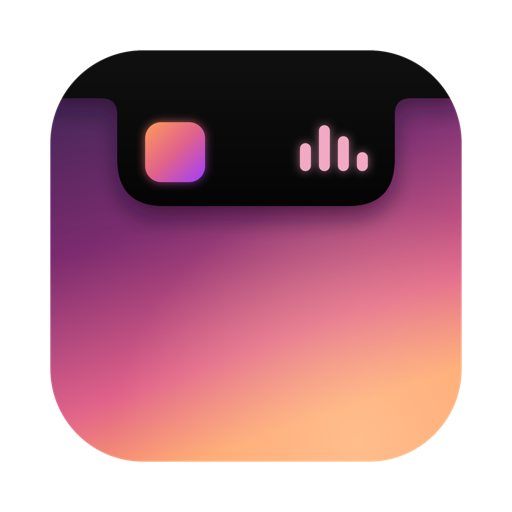
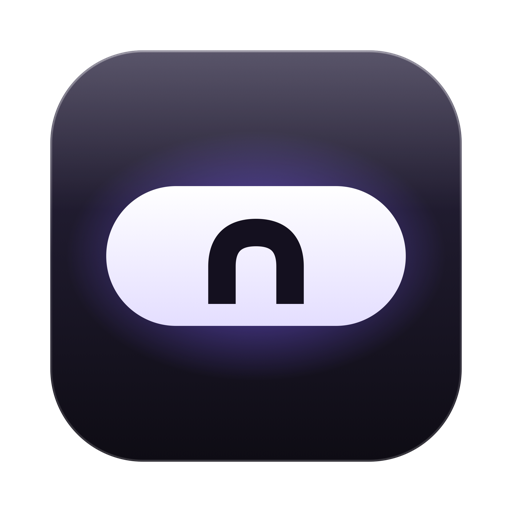
Ícono nuevo: la isla brillante con la n de Notchy sobre vidrio oscuro
Simétrico, legible en blanco y negro y con paleta fija (tinta, lila y violeta). scripts/icono también actualiza la portada de las instrucciones; el disco deja sitio al PDF y expulsa bien el volumen aunque el Finder tenga la ventana abierta.

diff --git a/Resources/Icono/icono.html b/Resources/Icono/icono.html
@@ -1,7 +1,8 @@
 <!doctype html>
-<!-- Ícono de Notchy: el notch de una Mac abierto como isla, con carátula y espectro. Se renderiza a
-     1024 × 1024 con transparencia y de ahí salen todos los tamaños del AppIcon (scripts/icono).
-     Rejilla de macOS: cuerpo de 824 con 100 de margen. -->
+<!-- Ícono de Notchy: la isla brillante sobre vidrio oscuro, con la n de Notchy. Simétrico y con paleta
+     fija: tinta #14101F, lila #F4F1FF, violeta #7B5CFF. Se renderiza a 1024 × 1024 con transparencia
+     y de ahí salen todos los tamaños del AppIcon (scripts/icono). Rejilla de macOS: cuerpo de 824 con
+     100 de margen. -->
 <html>
 <head>
 <meta charset="utf-8">
@@ -14,60 +15,35 @@
 <svg width="1024" height="1024" viewBox="0 0 1024 1024" xmlns="http://www.w3.org/2000/svg">
   <defs>
     <clipPath id="cuerpo"><rect x="100" y="100" width="824" height="824" rx="186"/></clipPath>
-    <!-- Fondo de pantalla: violeta arriba, rosa y naranja abajo. -->
-    <linearGradient id="fondo" x1="0" y1="0" x2="0.35" y2="1">
-      <stop offset="0" stop-color="#2a1747"/>
-      <stop offset="0.45" stop-color="#7a2a6e"/>
-      <stop offset="0.8" stop-color="#e0628a"/>
-      <stop offset="1" stop-color="#ffa36b"/>
+    <linearGradient id="vidrio" x1="0" y1="0" x2="0" y2="1">
+      <stop offset="0" stop-color="#2B2540"/><stop offset="1" stop-color="#0E0C14"/>
     </linearGradient>
-    <radialGradient id="luz" cx="0.75" cy="0.95" r="0.6">
-      <stop offset="0" stop-color="#ffd2a8" stop-opacity="0.55"/>
-      <stop offset="1" stop-color="#ffd2a8" stop-opacity="0"/>
+    <radialGradient id="halo" cx=".5" cy=".5" r=".5">
+      <stop offset="0" stop-color="#7B5CFF" stop-opacity=".75"/><stop offset="1" stop-color="#7B5CFF" stop-opacity="0"/>
     </radialGradient>
-    <linearGradient id="caratula" x1="0" y1="0" x2="1" y2="1">
-      <stop offset="0" stop-color="#ff9a5a"/><stop offset="0.5" stop-color="#e0628a"/><stop offset="1" stop-color="#a03dff"/>
+    <linearGradient id="isla" x1="0" y1="0" x2="0" y2="1">
+      <stop offset="0" stop-color="#FFFFFF"/><stop offset="1" stop-color="#E4DEFF"/>
     </linearGradient>
-    <linearGradient id="reflejo" x1="0" y1="0" x2="0" y2="1">
-      <stop offset="0" stop-color="#fff" stop-opacity="0.18"/><stop offset="1" stop-color="#fff" stop-opacity="0"/>
+    <linearGradient id="brillo" x1="0" y1="0" x2="0" y2="1">
+      <stop offset="0" stop-color="#fff" stop-opacity=".22"/><stop offset="1" stop-color="#fff" stop-opacity="0"/>
     </linearGradient>
-    <filter id="sombra" x="-20%" y="-20%" width="140%" height="160%">
-      <feDropShadow dx="0" dy="22" stdDeviation="26" flood-color="#12051f" flood-opacity="0.55"/>
-    </filter>
-    <filter id="brilla" x="-50%" y="-50%" width="200%" height="200%">
-      <feGaussianBlur stdDeviation="9"/>
-    </filter>
+    <linearGradient id="borde" x1="0" y1="0" x2="0" y2="1">
+      <stop offset="0" stop-color="#fff" stop-opacity=".35"/><stop offset=".5" stop-color="#fff" stop-opacity=".05"/>
+      <stop offset="1" stop-color="#fff" stop-opacity=".15"/>
+    </linearGradient>
+    <clipPath id="recorteN"><rect x="402" y="432" width="220" height="176"/></clipPath>
   </defs>
 
   <g clip-path="url(#cuerpo)">
-    <rect x="100" y="100" width="824" height="824" fill="url(#fondo)"/>
-    <rect x="100" y="100" width="824" height="824" fill="url(#luz)"/>
-    <!-- Borde de la pantalla y la isla que baja de él, con hombros cóncavos. -->
-    <path filter="url(#sombra)" fill="#000" d="
-      M100 100 H924 V196 H822
-      Q790 196 790 228
-      V318 Q790 412 696 412
-      H328 Q234 412 234 318
-      V228 Q234 196 202 196
-      H100 Z"/>
-    <!-- Reflejo de vidrio arriba del cuerpo. -->
-    <rect x="100" y="100" width="824" height="420" fill="url(#reflejo)" opacity="0.35"/>
+    <rect x="100" y="100" width="824" height="824" fill="url(#vidrio)"/>
+    <ellipse cx="512" cy="512" rx="380" ry="250" fill="url(#halo)"/>
+    <rect x="212" y="372" width="600" height="280" rx="140" fill="url(#isla)"/>
+    <!-- La n: arco simétrico, con las patas cortadas en recto -->
+    <path clip-path="url(#recorteN)" d="M443.8 640 V533.2 Q443.8 465 512 465 Q580.2 465 580.2 533.2 V640"
+          stroke="#14101F" stroke-width="55" fill="none" stroke-linecap="round"/>
+    <rect x="100" y="100" width="824" height="320" fill="url(#brillo)"/>
   </g>
-
-  <!-- Carátula -->
-  <rect x="290" y="244" width="120" height="120" rx="32" fill="url(#caratula)" filter="url(#brilla)" opacity="0.7"/>
-  <rect x="290" y="244" width="120" height="120" rx="32" fill="url(#caratula)"/>
-  <!-- Espectro -->
-  <g fill="#f2a9c3">
-    <g filter="url(#brilla)" opacity="0.6">
-      <rect x="600" y="286" width="22" height="56" rx="11"/><rect x="638" y="250" width="22" height="92" rx="11"/>
-      <rect x="676" y="272" width="22" height="70" rx="11"/><rect x="714" y="304" width="22" height="38" rx="11"/>
-    </g>
-    <rect x="600" y="286" width="22" height="56" rx="11"/><rect x="638" y="250" width="22" height="92" rx="11"/>
-    <rect x="676" y="272" width="22" height="70" rx="11"/><rect x="714" y="304" width="22" height="38" rx="11"/>
-  </g>
-  <!-- Contorno sutil del cuerpo -->
-  <rect x="100.5" y="100.5" width="823" height="823" rx="186" fill="none" stroke="#fff" stroke-opacity="0.12"/>
+  <rect x="102" y="102" width="820" height="820" rx="184" fill="none" stroke="url(#borde)" stroke-width="4"/>
 </svg>
 </body>
 </html>
